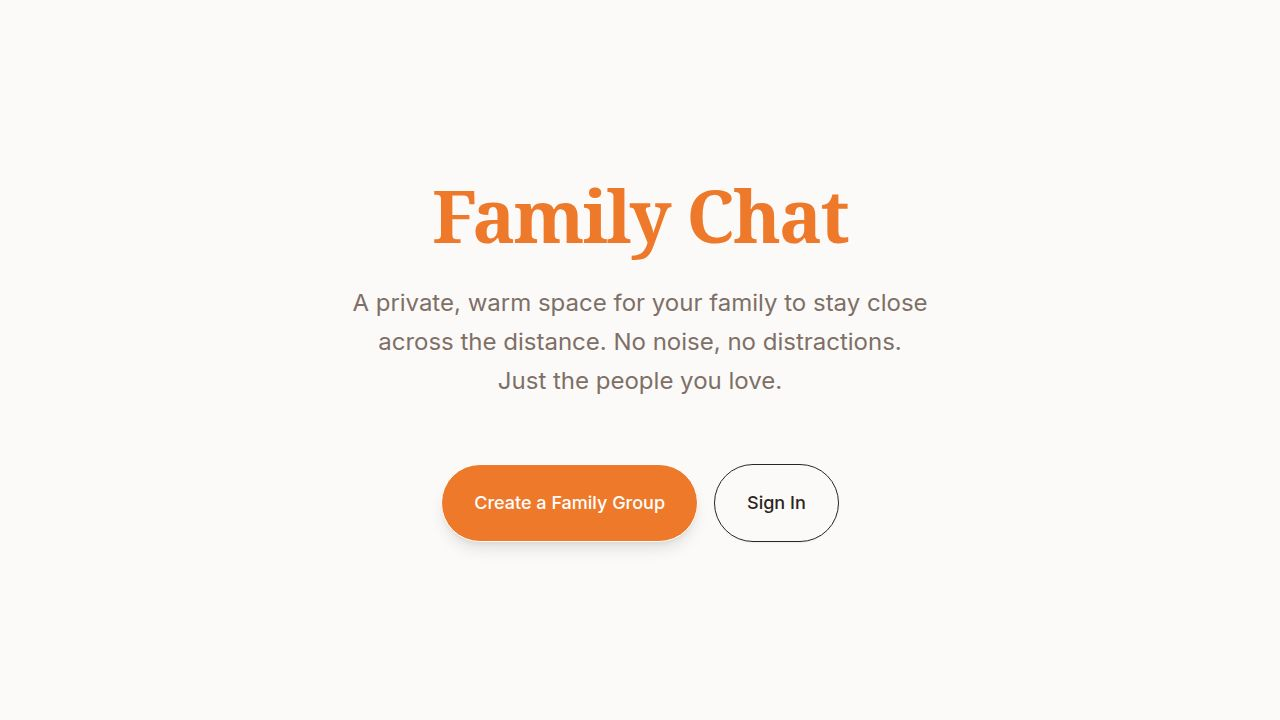
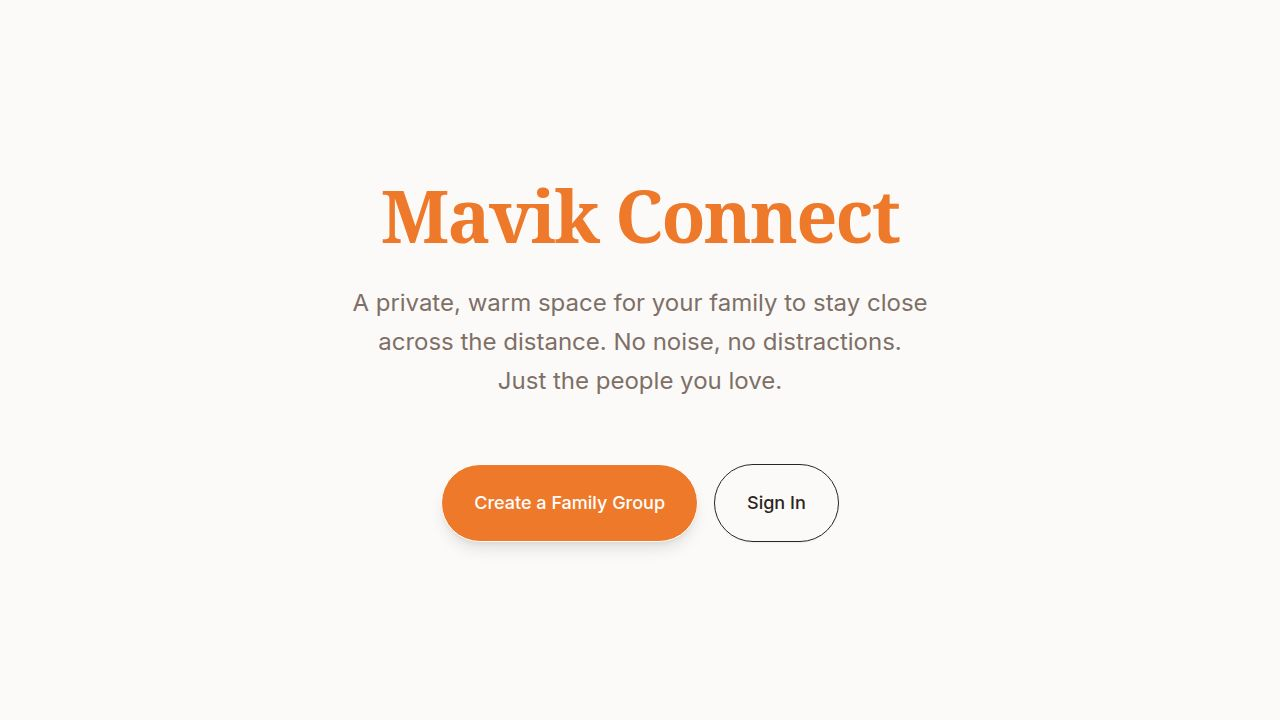
Fix blank homepage by correctly wiring the app to Clerk services
Update `App.tsx` to correctly configure Clerk's `publishableKey` and `proxyUrl`, and adjust routing for sign-in and sign-up pages to resolve issues with live domain authentication.

Replit-Commit-Author: Agent
Replit-Commit-Session-Id: 272f126b-91fa-42e8-9a9c-e48ecc1aae85
Replit-Commit-Checkpoint-Type: full_checkpoint
Replit-Commit-Event-Id: 4ba6aea2-2f9e-4cc3-8720-2adaed8811d2
Replit-Commit-Screenshot-Url: https://storage.googleapis.com/screenshot-production-us-central1/cf66d338-51d4-419e-ad86-27df58aaf6a6/272f126b-91fa-42e8-9a9c-e48ecc1aae85/iU2CkfS
Replit-Helium-Checkpoint-Created: true

Changed region(s): [[0.2812, 0.2444, 0.7188, 0.3667]]

diff --git a/artifacts/family-chat/src/App.tsx b/artifacts/family-chat/src/App.tsx
@@ -1,6 +1,7 @@
-import { Switch, Route, Router as WouterRouter, Redirect } from "wouter";
+import { Switch, Route, Router as WouterRouter, Redirect, useLocation } from "wouter";
 import { QueryClient, QueryClientProvider } from "@tanstack/react-query";
 import { ClerkProvider, SignIn, SignUp, useAuth } from "@clerk/react";
+import { publishableKeyFromHost } from "@clerk/react/internal";
 import { Toaster } from "@/components/ui/toaster";
 import { TooltipProvider } from "@/components/ui/tooltip";
 import { AppLayout } from "@/components/Layout";
@@ -14,8 +15,32 @@ import VideoCall from "@/pages/VideoCall";
 
 const queryClient = new QueryClient();
 
-// In Replit, use the proxy or publishable key
-const PUBLISHABLE_KEY = import.meta.env.VITE_CLERK_PUBLISHABLE_KEY || "pk_test_placeholder";
+// REQUIRED — copy verbatim. Resolves the key from window.location.hostname so the
+// same build serves multiple Clerk custom domains. Do not inline the env var, leave
+// publishableKey undefined, or replace publishableKeyFromHost with anything else.
+const clerkPubKey = publishableKeyFromHost(
+  window.location.hostname,
+  import.meta.env.VITE_CLERK_PUBLISHABLE_KEY,
+);
+
+// REQUIRED — copy verbatim. Empty in dev (Clerk hits dev FAPI directly), auto-set
+// in prod. Do NOT gate on import.meta.env.PROD / NODE_ENV — the empty dev value
+// is intentional, and any branching breaks the prod proxy.
+const clerkProxyUrl = import.meta.env.VITE_CLERK_PROXY_URL;
+
+const basePath = import.meta.env.BASE_URL.replace(/\/$/, "");
+
+// Clerk passes full paths to routerPush/routerReplace, but wouter's
+// setLocation prepends the base — strip it to avoid doubling.
+function stripBase(path: string): string {
+  return basePath && path.startsWith(basePath)
+    ? path.slice(basePath.length) || "/"
+    : path;
+}
+
+if (!clerkPubKey) {
+  throw new Error("Missing VITE_CLERK_PUBLISHABLE_KEY in .env file");
+}
 
 function ProtectedRoute({ component: Component }: { component: any }) {
   const { isLoaded, isSignedIn } = useAuth();
@@ -24,23 +49,33 @@ function ProtectedRoute({ component: Component }: { component: any }) {
   return <Component />;
 }
 
+function SignInPage() {
+  return (
+    <div className="min-h-screen flex items-center justify-center bg-background p-4">
+      <SignIn routing="path" path={`${basePath}/sign-in`} signUpUrl={`${basePath}/sign-up`} />
+    </div>
+  );
+}
+
+function SignUpPage() {
+  return (
+    <div className="min-h-screen flex items-center justify-center bg-background p-4">
+      <SignUp routing="path" path={`${basePath}/sign-up`} signInUrl={`${basePath}/sign-in`} />
+    </div>
+  );
+}
+
 function Router() {
   return (
     <AppLayout>
       <Switch>
         <Route path="/" component={Landing} />
-        
-        <Route path="/sign-in">
-          <div className="min-h-screen flex items-center justify-center bg-background p-4">
-            <SignIn routing="hash" />
-          </div>
-        </Route>
-        
-        <Route path="/sign-up">
-          <div className="min-h-screen flex items-center justify-center bg-background p-4">
-            <SignUp routing="hash" />
-          </div>
-        </Route>
+
+        {/* REQUIRED — copy "/sign-in/*?" and "/sign-up/*?" verbatim. The /*? optional
+            wildcard is the only wouter syntax that matches both the bare URL and Clerk's
+            OAuth sub-paths. Not /sign-in, not /sign-in/*, not /sign-in/:rest*. */}
+        <Route path="/sign-in/*?" component={SignInPage} />
+        <Route path="/sign-up/*?" component={SignUpPage} />
 
         <Route path="/app">
           <ProtectedRoute component={Dashboard} />
@@ -64,18 +99,33 @@ function Router() {
   );
 }
 
-function App() {
+function ClerkProviderWithRoutes() {
+  const [, setLocation] = useLocation();
+
   return (
-    <ClerkProvider publishableKey={PUBLISHABLE_KEY}>
+    <ClerkProvider
+      publishableKey={clerkPubKey}
+      proxyUrl={clerkProxyUrl}
+      signInUrl={`${basePath}/sign-in`}
+      signUpUrl={`${basePath}/sign-up`}
+      routerPush={(to) => setLocation(stripBase(to))}
+      routerReplace={(to) => setLocation(stripBase(to), { replace: true })}
+    >
       <QueryClientProvider client={queryClient}>
         <TooltipProvider>
-          <WouterRouter base={import.meta.env.BASE_URL.replace(/\/$/, "")}>
-            <Router />
-          </WouterRouter>
+          <Router />
           <Toaster />
         </TooltipProvider>
       </QueryClientProvider>
     </ClerkProvider>
+  );
+}
+
+function App() {
+  return (
+    <WouterRouter base={basePath}>
+      <ClerkProviderWithRoutes />
+    </WouterRouter>
   );
 }
 